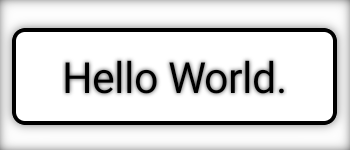
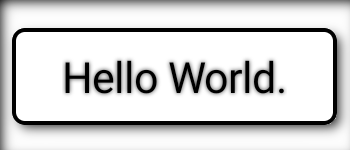
Sample images updated.

Changed region(s): [[0.0, 0.0, 1.0, 1.0]]

diff --git a/README.md b/README.md
@@ -30,7 +30,7 @@ dependencies {
 
 > Square With Border Rounded Corner: 👇
 
-<img src="https://github.com/potterTheCoder/android-toast/blob/master/sample/images/ic_android_toast_q.png" width="250">
+<img src="https://github.com/potterTheCoder/android-toast/blob/master/sample/images/ic_android_toast_o.png" width="250">
 
 ## How To Use:
 
